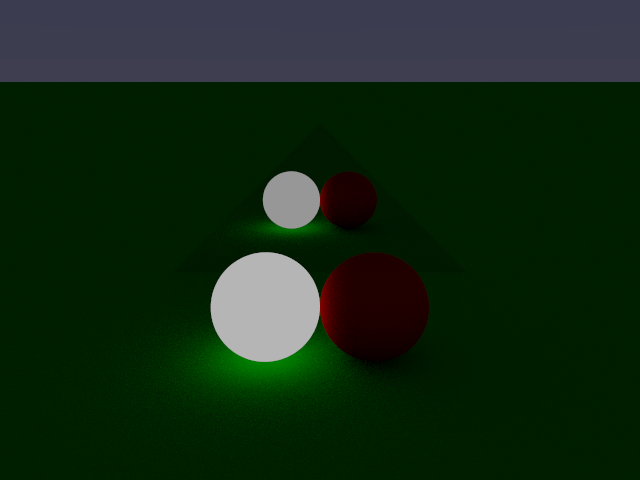
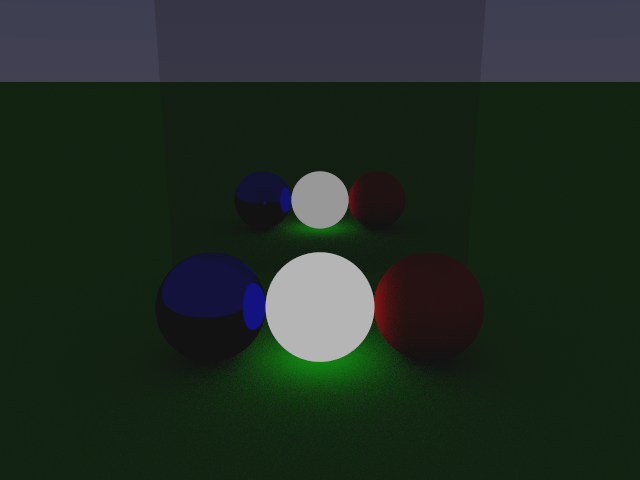
Address style and dead code feedback

Changed region(s): [[0.25, 0.3438, 0.7812, 0.8438]]

diff --git a/src/main.rs b/src/main.rs
@@ -26,17 +26,18 @@ fn main() {
     let args: Vec<String> = env::args().collect();
 
     // let lights = vec![Light {position: Point::new(0.0, 100.0, 0.0) }];
-    let material_a: Metal = Metal { albedo: Color::new(0.7, 0.7, 0.7, 1.0), shinyness: 0.5};
-    let material_b: Lambertian = Lambertian { albedo: Color::new(0.0, 0.5, 0.0, 1.0) };
-    let material_c: Lambertian = Lambertian { albedo: Color::new(0.5, 0.0, 0.0, 1.0) };
-    let material_d: Metal = Metal { albedo: Color::new(0.0, 0.0, 0.5, 1.0), shinyness: 0.5 };
+    let chrome: Metal = Metal { albedo: Color::new(0.7, 0.7, 0.7, 1.0), shinyness: 0.5};
+    let green: Lambertian = Lambertian { albedo: Color::new(0.0, 0.5, 0.0, 1.0) };
+    let red: Lambertian = Lambertian { albedo: Color::new(0.5, 0.0, 0.0, 1.0) };
+    let blue_metal: Metal = Metal { albedo: Color::new(0.0, 0.0, 0.5, 1.0), shinyness: 0.5 };
     let diffuse_light: DiffuseLight = DiffuseLight { color: Color::new(0.5, 0.5, 0.5, 1.0) };
-    let sphere1: Sphere = Sphere {position: Point::new(0.0, 20.0, 0.0), radius: 20.0, material: &material_a};
-    let sphere2: Sphere = Sphere {position: Point::new(-5.0, 5.0, 25.0), radius: 5.0, material: &material_c};
-    let sphere3: Sphere = Sphere {position: Point::new(5.0, 5.0, 25.0), radius: 5.0, material: &diffuse_light};
-    let plane1 = Plane {point: Point::new(0.0, 0.0, 0.0), normal: Vector::unit_y(), material: &material_b};
-    let triangle1 = Triangle::new(Point::new(-20.0, 0.0, 0.0), Point::new(20.0, 0.0, 0.0), Point::new(0.0, 20.0, 0.0), &material_a);
-    let objects: Vec<&dyn Intersectable> = vec![&plane1, &sphere2, &sphere3, &triangle1];
+    let light: Sphere = Sphere {position: Point::new(0.0, 5.0, 25.0), radius: 5.0, material: &diffuse_light};
+    let red_sphere: Sphere = Sphere {position: Point::new(-10.0, 5.0, 25.0), radius: 5.0, material: &red};
+    let blue_sphere: Sphere = Sphere {position: Point::new(10.0, 5.0, 25.0), radius: 5.0, material: &blue_metal};
+    let ground = Plane {point: Point::new(0.0, 0.0, 0.0), normal: Vector::unit_y(), material: &green};
+    let mirror1 = Triangle::new(Point::new(-20.0, 0.0, 0.0), Point::new(20.0, 0.0, 0.0), Point::new(-20.0, 40.0, 0.0), &chrome);
+    let mirror2 = Triangle::new(Point::new(-20.0, 40.0, 0.0), Point::new(20.0, 0.0, 0.0), Point::new(2.0, 40.0, 0.0), &chrome);
+    let objects: Vec<&dyn Intersectable> = vec![&ground, &light, &red_sphere, &blue_sphere, &mirror1, &mirror2];
     let image_width = 640u32;
     let image_height = 480u32;
     let sample_count: i32 = args[1].parse().unwrap();
@@ -88,7 +89,6 @@ fn calc(ray: &Ray, t_min: f32, t_max: f32, objects: &Vec<&dyn Intersectable>, de
         //Color::grey(1.0 - (point - ray.point).magnitude().log(1000.0)).saturate()
         // Debug normal
         //Color::new(normal.x, normal.y, normal.z, 1.0).saturate()
-
         if depth < 10 {
             emitted + albedo * calc(&scatter, 0.001, std::f32::MAX, objects, depth + 1)
         } else {

diff --git a/src/geo.rs b/src/geo.rs
@@ -30,7 +30,7 @@ pub struct Sphere<'a> {
     pub material: &'a dyn Material,
 }
 
-fn sphereUVW(p: &Point) -> Vector {
+fn sphere_uvw(p: &Point) -> Vector {
     let phi = p.z.atan2(p.x);
     let theta = p.y.asin();
     Vector::new(1.0 - (phi + std::f32::consts::PI) / (2.0 * std::f32::consts::PI),
@@ -50,13 +50,13 @@ impl<'a> Intersectable for Sphere<'a> {
             let t1 = (-b - discriminant_sqrt) / a;
             if t1 <= t_max && t1 >= t_min {
                 let hit_point = ray.point + (ray.direction * t1);
-                let uvw = sphereUVW(&hit_point);
+                let uvw = sphere_uvw(&hit_point);
                 Some((hit_point, (hit_point - self.position).normalize(), uvw))
             } else {
                 let t2 = (-b + discriminant_sqrt) / a;
                 if t2 <= t_max && t2 >= t_min {
                     let hit_point = ray.point + (ray.direction * t2);
-                    let uvw = sphereUVW(&hit_point);
+                    let uvw = sphere_uvw(&hit_point);
                     Some((hit_point, (hit_point - self.position).normalize(), uvw))
                 } else {
                     None

diff --git a/src/color.rs b/src/color.rs
@@ -10,9 +10,6 @@ impl Color {
     pub fn black() -> Color {
         Color { r: 0.0, g: 0.0, b: 0.0, a: 1.0 }
     }
-    pub fn white() -> Color {
-        Color { r: 1.0, g: 1.0, b: 1.0, a: 1.0 }
-    }
 
     pub fn new(r: f32, g: f32, b: f32, a: f32) -> Color {
         Color { r, g, b, a }
